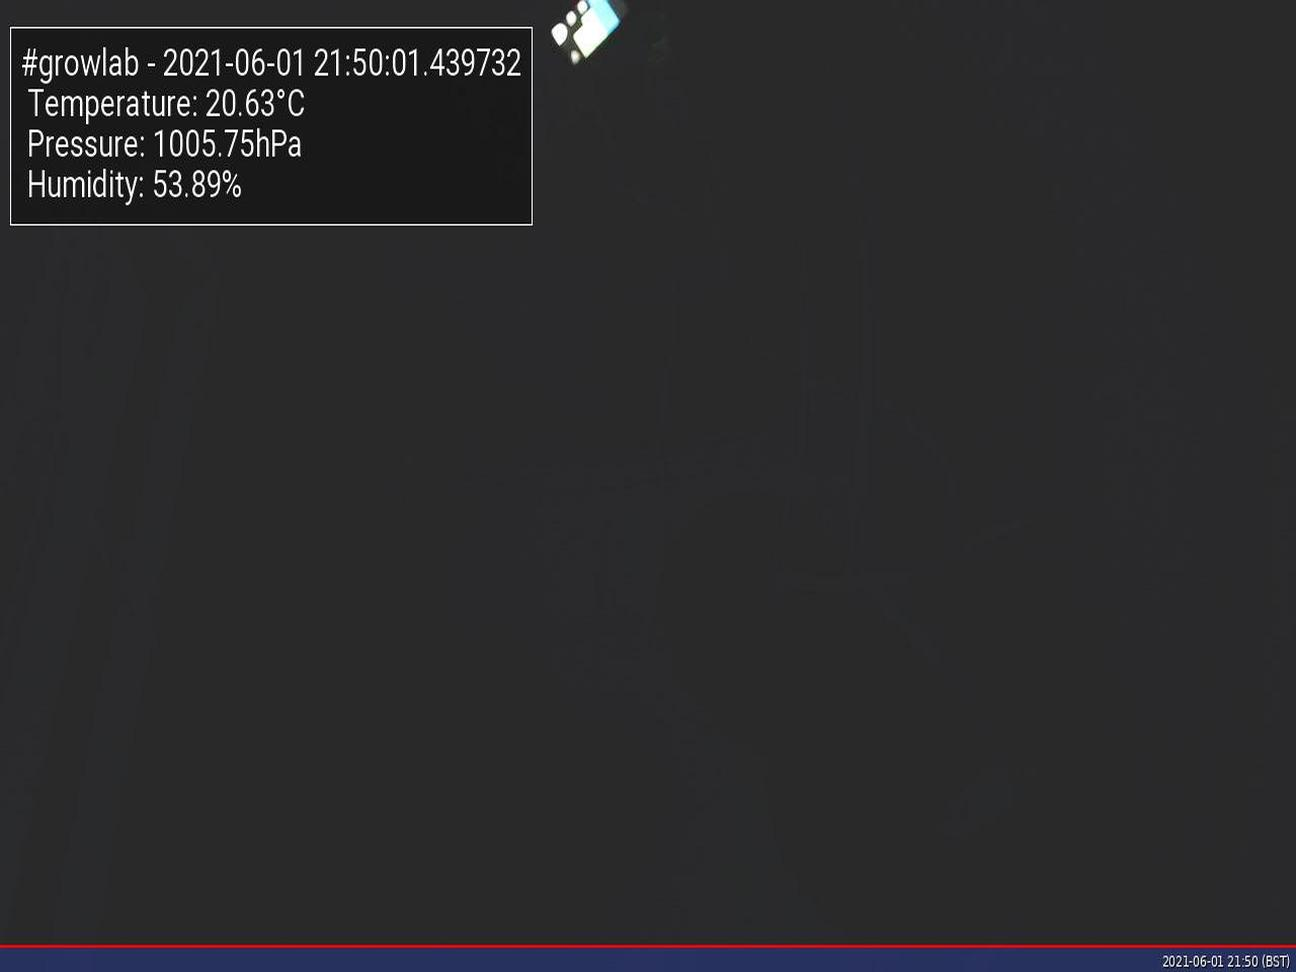
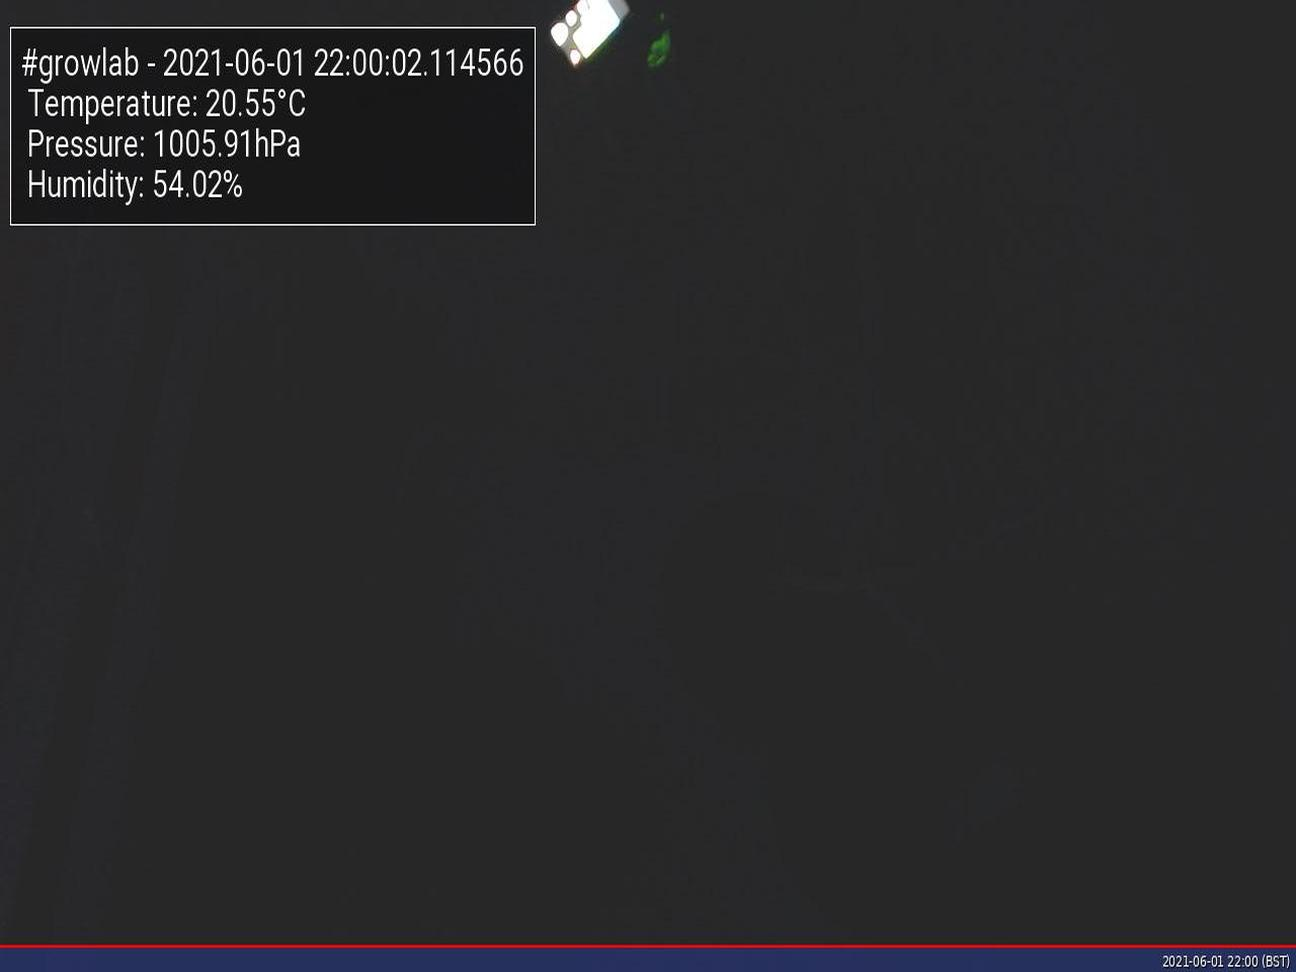
Update images at Tue  1 Jun 22:00:05 BST 2021

Changed region(s): [[0.3086, 0.0, 0.5247, 0.216], [0.1235, 0.0926, 0.2469, 0.216], [0.2469, 0.0309, 0.2778, 0.0926]]

diff --git a/app/docs/index.html b/app/docs/index.html
@@ -47,19 +47,19 @@
                         <tbody>
                             <tr>
                                 <td>Time</td>
-                                <td>2021-06-01 21:50:01.439732</td>
+                                <td>2021-06-01 22:00:02.114566</td>
                             </tr>
                             <tr>
                                 <td>Temperature</td>
-                                <td>20.63°C</td>
+                                <td>20.55°C</td>
                             </tr>
                             <tr>
                                 <td>Humidity</td>
-                                <td>53.89%</td>
+                                <td>54.02%</td>
                             </tr>
                             <tr>
                                 <td>Pressure</td>
-                                <td>1005.75hPa</td>
+                                <td>1005.91hPa</td>
                             </tr>
                         </tbody>
                     </table>
@@ -67,7 +67,7 @@
 
                 <h5>Latest image</h5>
                 <div style="width: 85%;">
-                            <img class="figure-img img-fluid rounded" src="./preview.jpg?uid=1622580605.1694489">
+                            <img class="figure-img img-fluid rounded" src="./preview.jpg?uid=1622581205.833282">
                 </div>
             </div>
         </div>
